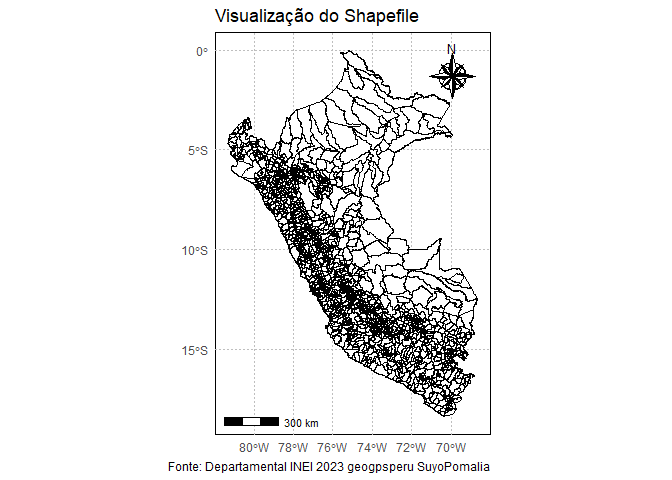
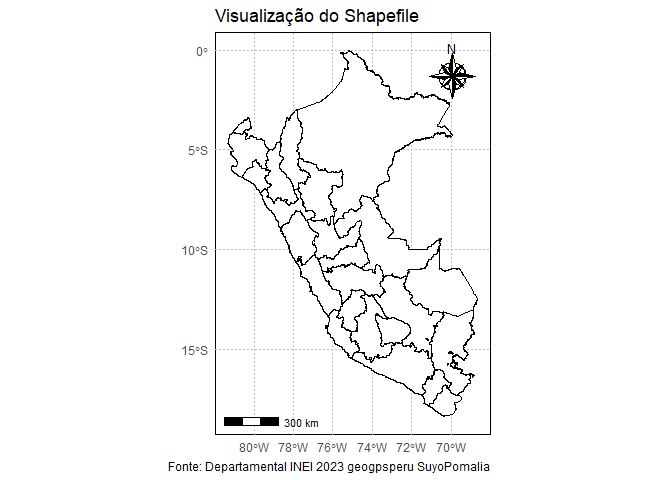
mapas

Changed region(s): [[0.3438, 0.1562, 0.7188, 0.875]]

diff --git a/README.md b/README.md
@@ -9,7 +9,7 @@
 library(sf)
 library(tidyverse)
 library(ggsci)
-# source("R/gafico.R")
+source("R/gafico.R")
 # source("R/my-function.R")
 ```
 
@@ -36,30 +36,76 @@ emissions_sources %>%
 ![](README_files/figure-gfm/unnamed-chunk-4-1.png)<!-- -->
 
 ``` r
-shapefile_path <- "data/Departamental INEI 2023 geogpsperu SuyoPomalia/"
-shapefile_data <- st_read(shapefile_path)
+shapefile_path_dep <- "data/Departamental INEI 2023 geogpsperu SuyoPomalia/"
+shapefile_path_dis <- "data/Distrital INEI 2023 geogpsperu SuyoPomalia/"
+shapefile_path_pro <- "data/Provincial INEI 2023 geogpsperu SuyoPomalia/"
+shapefile_data_dep <- st_read(shapefile_path_dep)
 #> Reading layer `Departamental INEI 2023 geogpsperu SuyoPomalia' from data source 
-#>   `C:\Github\climate-trace-per\data\Departamental INEI 2023 geogpsperu SuyoPomalia' 
+#>   `D:\Github\climate-trace-per\data\Departamental INEI 2023 geogpsperu SuyoPomalia' 
 #>   using driver `ESRI Shapefile'
 #> Simple feature collection with 25 features and 4 fields
 #> Geometry type: MULTIPOLYGON
 #> Dimension:     XY
 #> Bounding box:  xmin: -81.32823 ymin: -18.35093 xmax: -68.65228 ymax: -0.03860597
 #> Geodetic CRS:  WGS 84
-shapefile_data %>%
+shapefile_data_dis <- st_read(shapefile_path_dis)
+#> Reading layer `Distrital INEI 2023 geogpsperu SuyoPomalia' from data source 
+#>   `D:\Github\climate-trace-per\data\Distrital INEI 2023 geogpsperu SuyoPomalia' 
+#>   using driver `ESRI Shapefile'
+#> Simple feature collection with 1891 features and 9 fields
+#> Geometry type: MULTIPOLYGON
+#> Dimension:     XY
+#> Bounding box:  xmin: -81.32823 ymin: -18.35093 xmax: -68.65228 ymax: -0.03860597
+#> Geodetic CRS:  WGS 84
+shapefile_data_pro <- st_read(shapefile_path_pro)
+#> Reading layer `Provincial INEI 2023 geogpsperu SuyoPomalia' from data source 
+#>   `D:\Github\climate-trace-per\data\Provincial INEI 2023 geogpsperu SuyoPomalia' 
+#>   using driver `ESRI Shapefile'
+#> Simple feature collection with 196 features and 5 fields
+#> Geometry type: MULTIPOLYGON
+#> Dimension:     XY
+#> Bounding box:  xmin: -81.32823 ymin: -18.35093 xmax: -68.65228 ymax: -0.03860597
+#> Geodetic CRS:  WGS 84
+shapefile_data_dep %>%
   ggplot() +
   geom_sf() +
   theme_minimal() +
   labs(title = "Visualização do Shapefile",
-       caption = "Fonte: Departamental INEI 2023 geogpsperu")
+       caption = "Fonte: Departamental INEI 2023 geogpsperu SuyoPomalia")
 ```
 
 ![](README_files/figure-gfm/unnamed-chunk-5-1.png)<!-- -->
 
 ``` r
-shapefile_data %>%
+shapefile_data_dep %>%
   ggplot() +
   geom_sf(fill="white", color="black",
+          size=.15, show.legend = FALSE) +
+  theme_minimal() +
+  labs(title = "Visualização do Shapefile",
+       caption = "Fonte: Departamental INEI 2023 geogpsperu SuyoPomalia") +
+  tema_mapa()
+```
+
+![](README_files/figure-gfm/unnamed-chunk-6-1.png)<!-- -->
+
+``` r
+shapefile_data_dis %>%
+  ggplot() +
+  geom_sf(fill="white", color="black",
+          size=.15, show.legend = FALSE) +
+  theme_minimal() +
+  labs(title = "Visualização do Shapefile",
+       caption = "Fonte: Distrital INEI 2023 geogpsperu SuyoPomalia") +
+  tema_mapa()
+```
+
+![](README_files/figure-gfm/unnamed-chunk-7-1.png)<!-- -->
+
+``` r
+shapefile_data_pro %>%
+  ggplot() +
+  geom_sf(fill="white", color="gray",
           size=.15, show.legend = FALSE) +
   geom_point(
     data = emissions_sources %>%
@@ -68,10 +114,10 @@ shapefile_data %>%
   theme_minimal()
 ```
 
-![](README_files/figure-gfm/unnamed-chunk-6-1.png)<!-- -->
+![](README_files/figure-gfm/unnamed-chunk-8-1.png)<!-- -->
 
 ``` r
-nomes_departamentos <- shapefile_data$DEPARTAMEN %>% str_to_title()
+nomes_departamentos <- shapefile_data_dep$DEPARTAMEN %>% str_to_title()
 nomes_departamentos[17] <- "Madre de Dios"
 ```
 
@@ -109,4 +155,14 @@ emissions_sources %>%
 #> 5 manufacturing           7104411  68912942.
 #> 6 waste                   6930570. 75843512.
 #> 7 fossil_fuel_operations  6262046. 82105558.
+```
+
+``` r
+emissions_sources %>% 
+  filter(
+    year == 2022,
+    gas == "co2e_100yr",
+    source_name == "Madre de Dios"
+  ) %>% 
+  View()
 ```
